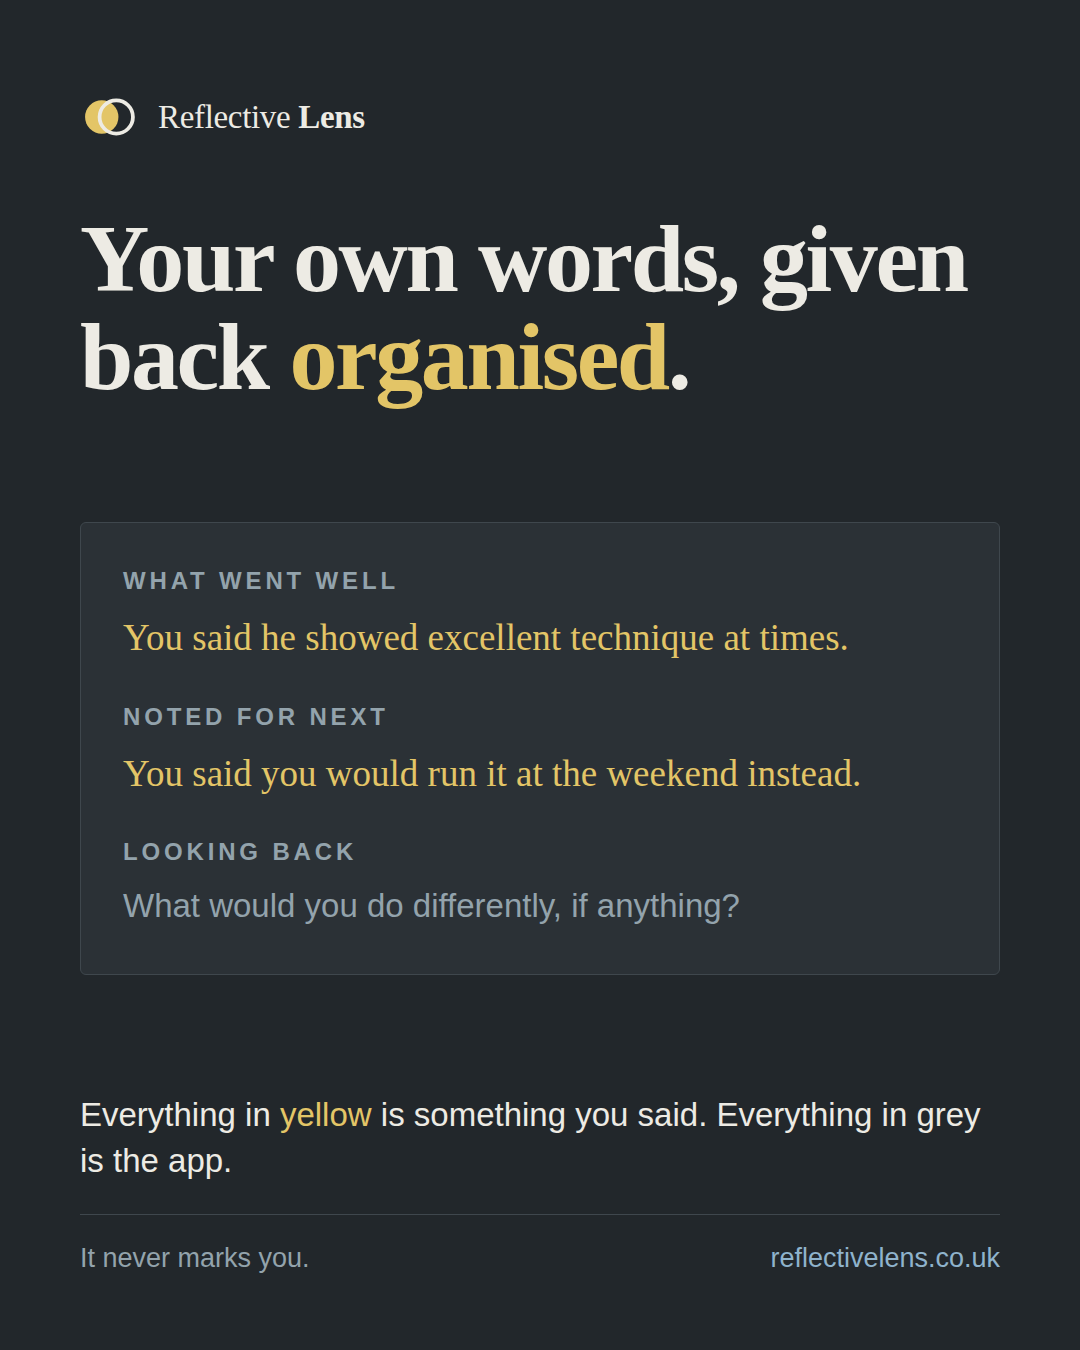
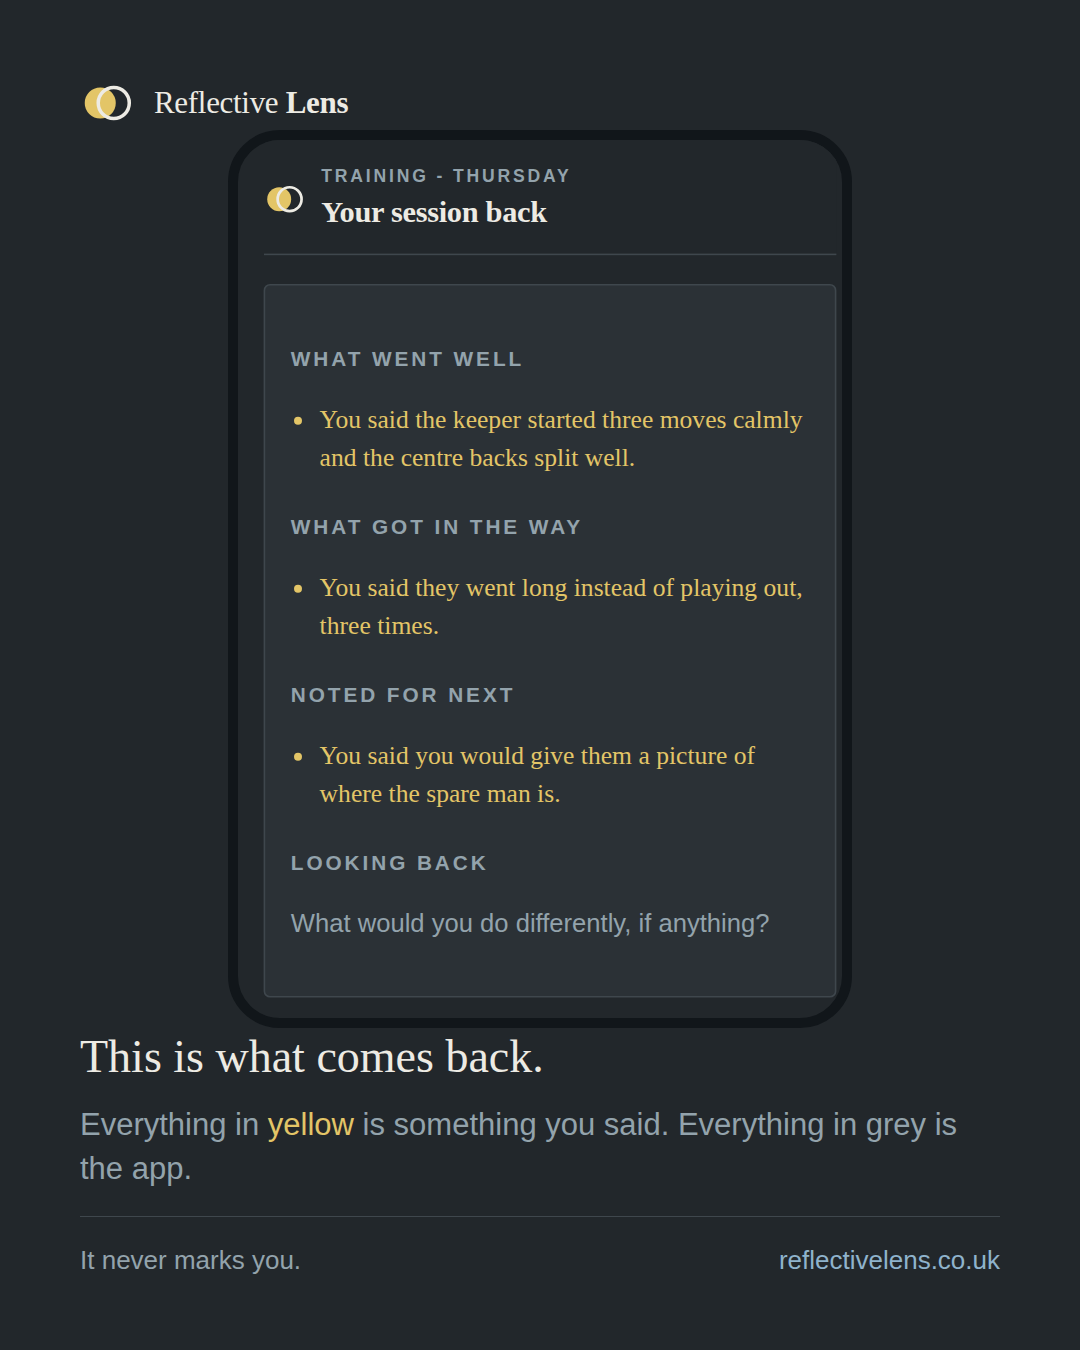
Show the real screen rather than a drawing of it
The proof card was a hand-built impression of a report. It is now the app's own
compiled stylesheet, copied out of a build, laid out at a real phone's width and
scaled up inside a device frame. The type, the spacing, the rules between the
sections and every colour are the app's rather than an approximation, because
they ARE the app's.

Scaled rather than widened, deliberately. Laying the app out at 700px would have
given tablet proportions and tiny type, which is exactly what makes a mockup
look like a mockup.

Two passes to get it honest. The first clipped the report mid-section, which
reads as broken rather than as a screen that scrolls, and the second still
clipped because a headline above it was squeezing the one thing worth looking
at. The headline went underneath, the phone became the hero, and the screen now
ends where it should: on the question it leaves you with.

app.css is committed next to the generator so the card can be remade, and the
doc says to refresh it from a build first. A promotional picture drifting behind
the product is a lie that nobody notices for months.

diff --git a/docs/promo/app.css b/docs/promo/app.css
@@ -1,0 +1,1 @@
+:root{--paper: #22272b;--card: #2b3136;--faint: #333a40;--hair: #3f474d;--ink: #edebe4;--muted: #93a3ac;--yours: #e3c567;--pitch: #edebe4;--grass: #8fb3cc;--grass-ink: #a6c6db;--grass-soft: #2f3940;--grass-deep: #3a6480;--good: #8fb3cc;--warn: #d99a6c;--crit: #d97b6c;--shadow: none;--radius: 4px}*{box-sizing:border-box}button{font:inherit;color:inherit}html,body,#root{height:100%}body{margin:0;background:var(--paper);color:var(--ink);font-family:-apple-system,BlinkMacSystemFont,Segoe UI,Roboto,Helvetica,Arial,sans-serif;line-height:1.5;-webkit-font-smoothing:antialiased}.serif{font-family:Iowan Old Style,Palatino Linotype,Palatino,Book Antiqua,Georgia,serif}.mono{font-family:ui-monospace,SFMono-Regular,Menlo,Consolas,monospace;font-variant-numeric:tabular-nums}.pill,.tag,table{font-variant-numeric:tabular-nums}h1,h2,h3{text-wrap:balance;margin:0}a{color:var(--grass-ink)}.app{max-width:720px;margin:0 auto;padding:0 16px calc(84px + env(safe-area-inset-bottom))}.screen{padding-top:18px;padding-bottom:calc(124px + env(safe-area-inset-bottom))}.stack{display:flex;flex-direction:column;gap:14px}.row{display:flex;gap:10px;align-items:center}.row.wrap{flex-wrap:wrap}.spacer{flex:1}.muted{color:var(--muted)}.center{text-align:center}.small{font-size:13px}.topbar{position:sticky;top:0;z-index:5;background:var(--paper);display:flex;align-items:center;gap:10px;padding:14px 0 12px;border-bottom:1px solid var(--hair)}.topbar h1{font-size:19px;color:var(--pitch);font-weight:600;letter-spacing:-.01em}.brandmark{width:26px;height:26px;flex:0 0 auto}.eyebrow{font-size:11px;letter-spacing:.16em;text-transform:uppercase;color:var(--muted);font-weight:600}.card{background:var(--card);border:1px solid var(--hair);border-radius:var(--radius);padding:16px}.card h2{font-size:16px;color:var(--pitch);font-weight:600;margin-bottom:4px}.card.tap{cursor:pointer;text-align:left;width:100%;font:inherit;color:inherit}.card.tap:active{border-color:var(--grass)}.list{display:flex;flex-direction:column;gap:10px}.pill{display:inline-flex;align-items:center;gap:6px;font-size:11px;font-weight:600;padding:3px 9px;border-radius:2px;letter-spacing:.02em;text-transform:capitalize;background:var(--faint);color:var(--muted)}.pill.good{background:transparent;border:1px solid var(--grass);color:var(--grass-ink)}.pill.warn{background:transparent;border:1px solid var(--warn);color:var(--warn)}.pill.crit{background:transparent;border:1px solid var(--crit);color:var(--crit)}label{font-size:13px;font-weight:600;color:var(--ink);display:block;margin-bottom:5px}input,textarea,select{width:100%;font:inherit;color:var(--ink);background:var(--card);border:1px solid var(--hair);border-radius:3px;padding:11px 12px}textarea{resize:vertical;min-height:90px}input:focus,textarea:focus,select:focus{outline:2px solid var(--yours);outline-offset:1px;border-color:var(--yours)}.field{display:flex;flex-direction:column}.btn{font:inherit;font-weight:600;cursor:pointer;border-radius:3px;padding:11px 18px;border:1px solid var(--grass-deep);background:var(--grass-deep);color:var(--ink);display:inline-flex;align-items:center;justify-content:center;gap:8px}.btn:disabled{opacity:.55;cursor:default}.btn.block{width:100%}.btn.ghost{background:transparent;color:var(--grass-ink);border-color:var(--grass)}.btn.subtle{background:transparent;color:var(--muted);border-color:var(--hair)}.btn.danger{background:transparent;color:var(--crit);border-color:var(--crit)}.btn:focus-visible{outline:2px solid var(--yours);outline-offset:2px}.btn.sm{padding:7px 12px;font-size:13px}.record{width:74px;height:74px;border-radius:50%;cursor:pointer;background:transparent;border:2px solid var(--grass);color:var(--grass);display:grid;place-items:center}.record.on{border-color:var(--yours);color:var(--yours);animation:pulse 1.6s ease-in-out infinite}@keyframes pulse{0%,to{box-shadow:0 0 #e3c56759}50%{box-shadow:0 0 0 11px #e3c56700}}@media (prefers-reduced-motion: reduce){.record.on{animation:none}}.tabbar{position:fixed;left:0;right:0;bottom:0;z-index:6;background:var(--card);border-top:1px solid var(--hair);display:flex;justify-content:space-around;padding:8px 8px calc(8px + env(safe-area-inset-bottom))}.tabbar a{flex:1;text-align:center;text-decoration:none;color:var(--muted);font-size:11px;font-weight:600;display:flex;flex-direction:column;align-items:center;gap:3px}.tabbar a.active{color:var(--grass)}.tabbar svg{width:22px;height:22px}.note{border-left:3px solid var(--hair);padding:2px 0 2px 12px;color:var(--yours)}.note.positive{border-color:var(--grass)}.note.concern{border-color:var(--crit)}.tags{display:flex;flex-wrap:wrap;gap:5px;margin-top:6px}.tag{font-size:11px;background:transparent;border:1px solid var(--hair);color:var(--muted);padding:2px 8px;border-radius:2px}.yours{color:var(--yours);font-family:Iowan Old Style,Palatino Linotype,Palatino,Book Antiqua,Georgia,serif;font-size:1.02em;line-height:1.55}.md h1{font-size:21px;color:var(--ink);letter-spacing:-.01em}.md h2{font-size:13px;color:var(--muted);margin-top:20px;letter-spacing:.14em;text-transform:uppercase;font-weight:600}.md p{color:var(--muted);line-height:1.55}.md em{color:var(--muted);font-style:italic}.md ul{padding-left:18px}.md li{margin:6px 0;color:var(--yours);font-family:Iowan Old Style,Palatino Linotype,Palatino,Book Antiqua,Georgia,serif;font-size:16px;line-height:1.55}.banner{background:var(--faint);color:var(--grass-ink);border-left:3px solid var(--grass);border-radius:2px;padding:10px 12px;font-size:13px}.banner.warn{background:var(--faint);color:var(--warn);border-left-color:var(--warn)}.error{color:var(--crit);font-size:13px}.chipset{display:flex;flex-wrap:wrap;gap:8px}.chip{font:inherit;font-size:13px;cursor:pointer;padding:8px 13px;border-radius:3px;border:1px solid var(--hair);background:transparent;color:var(--muted)}.chip.on{background:transparent;color:var(--grass);border-color:var(--grass)}.spin{width:18px;height:18px;border:2px solid var(--hair);border-top-color:currentColor;border-radius:50%;animation:rot .7s linear infinite}@keyframes rot{to{transform:rotate(360deg)}}.center-screen{min-height:70vh;display:grid;place-items:center}.feedback-fab{position:fixed;right:12px;bottom:calc(64px + env(safe-area-inset-bottom));z-index:5;width:auto;padding:8px 14px;border-radius:3px;font-size:13px;border:1px solid var(--grass);opacity:.97}.install-sheet{position:fixed;left:0;right:0;bottom:calc(58px + env(safe-area-inset-bottom));z-index:7;padding:0 12px;animation:rise .28s ease-out}@keyframes rise{0%{transform:translateY(14px);opacity:0}to{transform:none;opacity:1}}@media (prefers-reduced-motion: reduce){.install-sheet{animation:none}}.install-sheet .card{border-color:var(--grass)}.feedback-sheet{position:fixed;left:0;right:0;bottom:calc(56px + env(safe-area-inset-bottom));z-index:7;padding:10px 12px;max-height:70vh;overflow-y:auto;background:var(--paper);border-top:1px solid var(--hair)}

diff --git a/docs/promo/generate-proof.py b/docs/promo/generate-proof.py
@@ -1,0 +1,89 @@
+import sys, pathlib
+sys.path.insert(0, "/tmp")
+from render import shot
+
+W, H = 1080, 1350
+HERE = pathlib.Path(".").resolve()
+
+# The phone screen is laid out at a real phone's width (390 CSS px) using the
+# app's OWN compiled stylesheet, then scaled up. So the type, the spacing and
+# every colour are the app's, not an impression of it. Scaling rather than
+# widening matters: laying the app out at 700px would give tablet proportions
+# and tiny type, which is what makes a mockup look like a mockup.
+PHONE_W, PHONE_H, SCALE = 390, 566, 1.60
+
+SCREEN = """
+<div class="app">
+  <header class="topbar">
+    <svg class="brandmark" viewBox="0 0 40 40" fill="none">
+      <circle cx="15" cy="20" r="11.5" fill="var(--yours)"/>
+      <circle cx="25" cy="20" r="11.5" stroke="var(--ink)" stroke-width="2.6"/>
+    </svg>
+    <div><div class="eyebrow">Training - Thursday</div><h1 class="serif">Your session back</h1></div>
+  </header>
+  <div class="screen stack" style="padding-bottom:16px">
+    <div class="card md">
+      <h2>What went well</h2>
+      <ul><li>You said the keeper started three moves calmly and the centre backs split well.</li></ul>
+      <h2>What got in the way</h2>
+      <ul><li>You said they went long instead of playing out, three times.</li></ul>
+      <h2>Noted for next</h2>
+      <ul><li>You said you would give them a picture of where the spare man is.</li></ul>
+      <h2>Looking back</h2>
+      <p>What would you do differently, if anything?</p>
+    </div>
+  </div>
+</div>
+"""
+
+html = f"""
+<link rel="stylesheet" href="app.css">
+<style>
+  html,body{{margin:0;padding:0;background:#22272b}}
+  .c{{width:{W}px;height:{H}px;background:#22272b;color:#edebe4;box-sizing:border-box;
+     font-family:-apple-system,"Segoe UI",Roboto,Helvetica,Arial,sans-serif;
+     padding:76px 80px 70px;display:flex;flex-direction:column;justify-content:space-between}}
+  .serifm{{font-family:"Iowan Old Style","Palatino Linotype",Palatino,"Book Antiqua",Georgia,serif}}
+  .top{{display:flex;align-items:center;gap:20px}}
+  .word{{font-size:31px;letter-spacing:-.01em}} .word b{{font-weight:600}}
+  .rule{{height:1px;background:#3f474d}}
+  .foot{{display:flex;justify-content:space-between;align-items:center;font-size:26px;color:#93a3ac}}
+  .foot .u{{color:#8fb3cc}}
+  .y{{color:#e3c567}}
+  h1.big{{margin:0;font-weight:600;letter-spacing:-.022em;font-size:74px;line-height:1.03}}
+
+  /* The device. A drawn edge rather than a glossy render, because a shadow and
+     a highlight would be the first thing in this whole brand to pretend at
+     depth. */
+  .device{{width:{int(PHONE_W*SCALE)}px;height:{int(PHONE_H*SCALE)}px;margin:0 auto;
+    border:10px solid #11161a;border-radius:52px;overflow:hidden;background:#22272b;position:relative}}
+  .viewport{{width:{PHONE_W}px;height:{PHONE_H}px;transform:scale({SCALE});transform-origin:top left}}
+</style>
+<div class="c">
+  <div>
+    <div class="top">
+      <svg width="54" height="54" viewBox="0 0 40 40" fill="none">
+        <circle cx="15" cy="20" r="11.5" fill="#e3c567"/>
+        <circle cx="25" cy="20" r="11.5" stroke="#edebe4" stroke-width="2.6"/>
+      </svg>
+      <div class="word serifm">Reflective <b>Lens</b></div>
+    </div>
+  </div>
+
+  <div class="device"><div class="viewport">{SCREEN}</div></div>
+
+  <div>
+    <div class="serifm" style="font-size:46px;line-height:1.25;margin-bottom:18px">
+      This is what comes back.
+    </div>
+    <div style="font-size:31px;line-height:1.4;margin-bottom:26px;color:#93a3ac">
+      Everything in <span class="y">yellow</span> is something you said.
+      Everything in grey is the app.
+    </div>
+    <div class="rule" style="margin-bottom:24px"></div>
+    <div class="foot"><span>It never marks you.</span><span class="u">reflectivelens.co.uk</span></div>
+  </div>
+</div>
+"""
+p = HERE / "_wa2.html"; p.write_text(html)
+shot(str(p), "wa-2-proof.png", W, H)

diff --git a/docs/recruiting-post.md b/docs/recruiting-post.md
@@ -25,7 +25,7 @@ set large enough to survive WhatsApp's compression.
 | File | What it is | When |
 | --- | --- | --- |
 | `wa-1-ask.png` | Five coaches wanted, free for life | Send first. It has to work as a thumbnail. |
-| `wa-2-proof.png` | A report, with the coach's words in yellow | Send second. The strongest of the three. |
+| `wa-2-proof.png` | The real report screen, in a phone | Send second. The strongest of the three. |
 | `wa-3-how.png` | The three steps | Optional. Only if the group is a chatty one. |
 | `promo-square.png` | 1080x1080 | Facebook, or anywhere square is wanted. |
 
@@ -38,10 +38,23 @@ it, rather than choosing a size and then breaking the line to fit.
 **Send two, not three.** A group post that arrives as a wall of images gets
 scrolled past, and the third card says nothing the first two have not.
 
-**The second one is the important one.** It shows a real report with the coach's
-own words in yellow and the app's words in grey, and says so underneath. Every
-competitor can claim it does not judge you. This is the only version of that
-claim that can be checked at a glance, which is why it is the picture rather
+**The second one is the important one, and it is not a mockup.** The phone on
+that card is the app's own compiled stylesheet (`app.css`, copied from a build)
+laid out at a real phone's width and scaled up, so the type, the spacing and
+every colour are the app's rather than an impression of one. The words in it are
+an example session, which is the ordinary way app pictures are made, but nothing
+about how it looks is invented.
+
+Regenerate it with `generate-proof.py`, and refresh `app.css` from
+`web/dist/assets/` first if the design has moved on, or the picture will quietly
+be advertising last month's app.
+
+**If you would rather use a real session of your own**, send a screenshot and it
+can be dropped into the same frame. That is better again, because the words are
+yours, though it does mean a real team's name is in a public post.
+
+Every competitor can claim it does not judge you. This is the only version of
+that claim a coach can check at a glance, which is why it is the picture rather
 than a bullet point.
 
 ---
